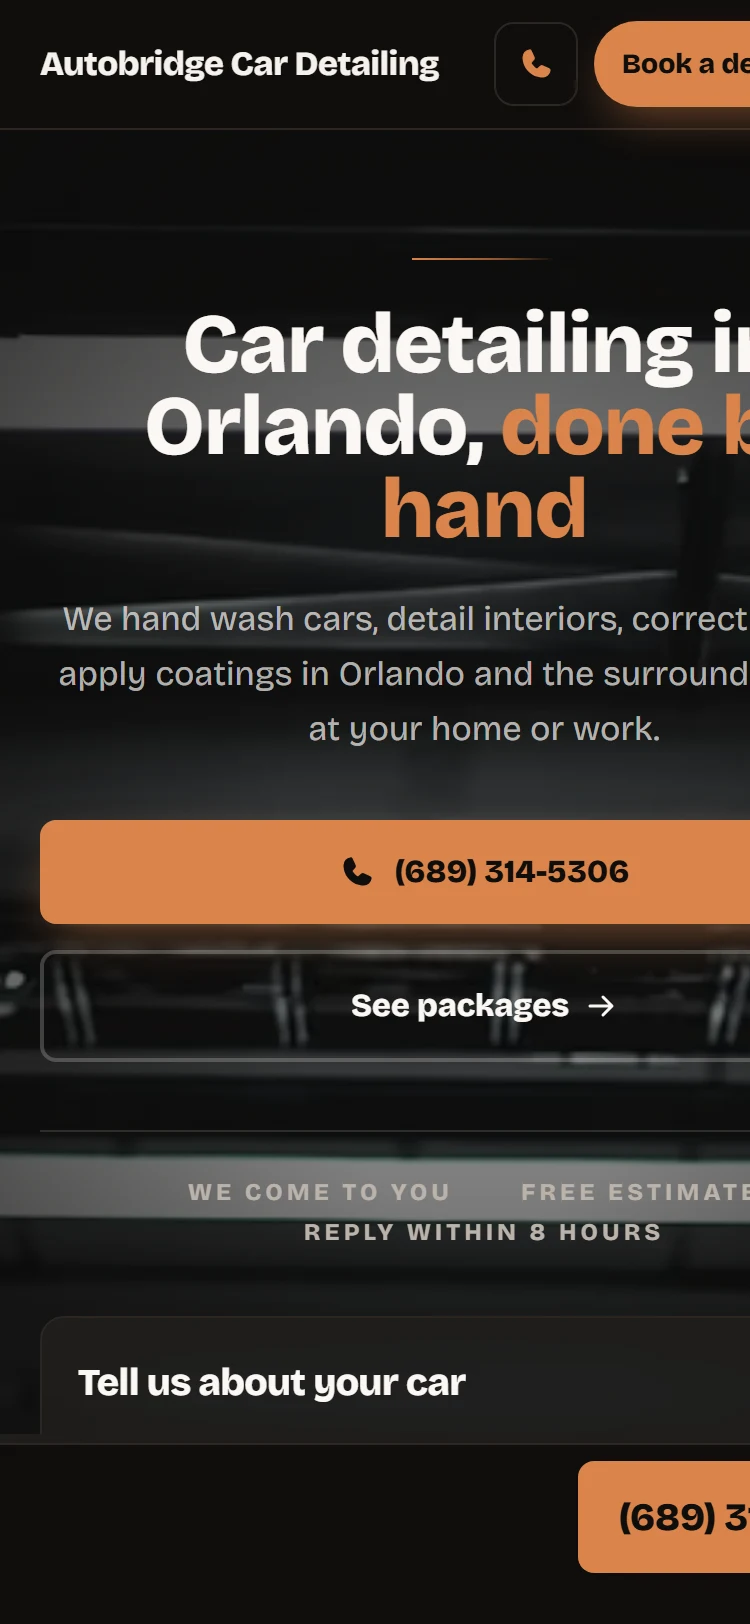
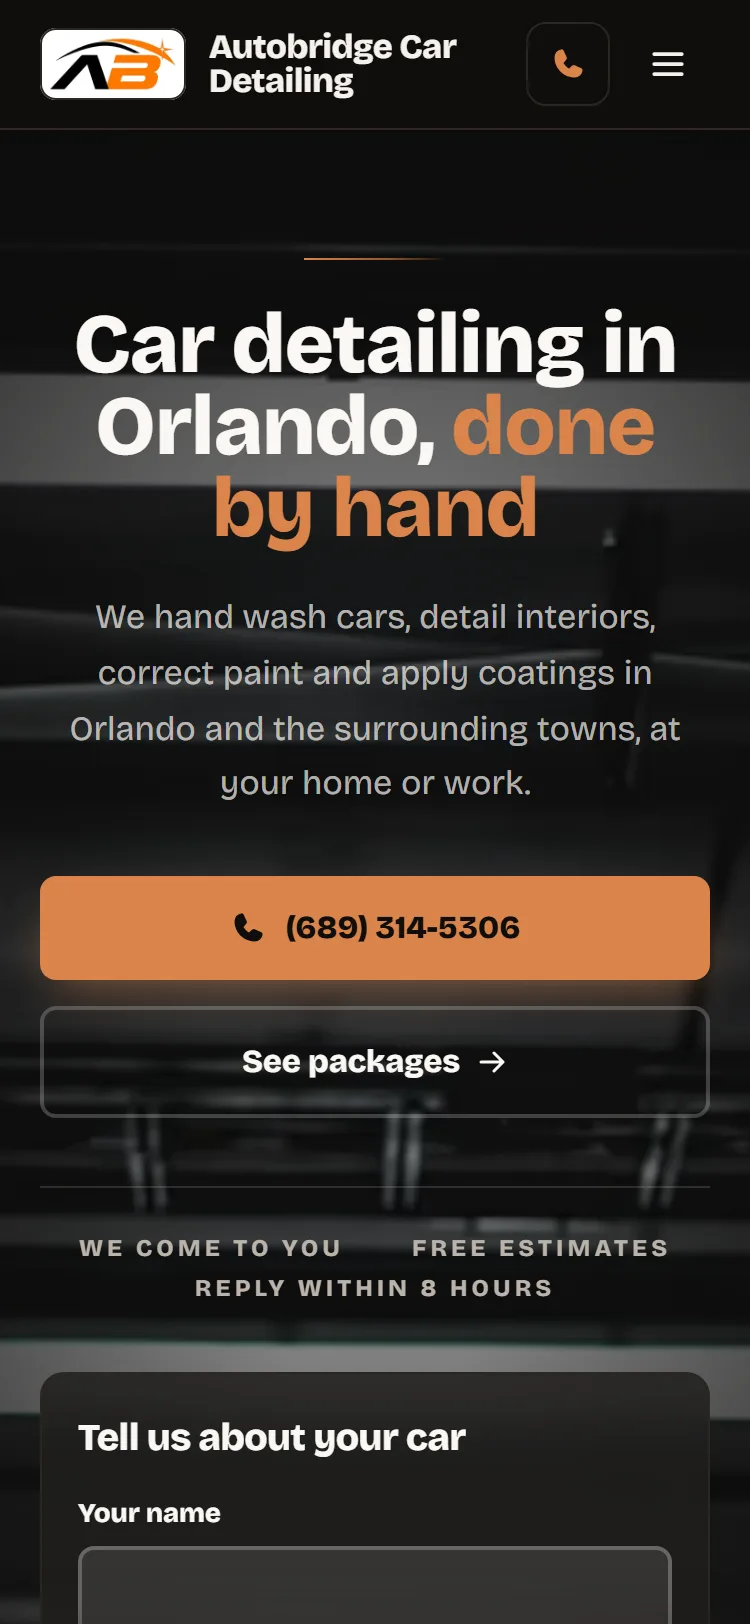
fix(trade pages): phone width, calculator numbers and Autobridge shots
/auto-detailing and /pressure-washing at a 375px phone:
- The ringing arcs hung past the edge (scrollWidth 385). The phone's
  mobile margin-right is now 40px, as on /roofing.
- The calculator inputs lost to the site-wide 16px input rule. Their
  override now sets font-size: inherit !important (44px; no iOS zoom).
- The three Autobridge screens are recaptured at a true 375x812 DPR-2
  phone viewport, so their right edge is no longer cut off.

No wording or other styling changes.

diff --git a/app/globals.css b/app/globals.css
@@ -7078,7 +7078,7 @@ a.portal-cell:hover, button.portal-cell:hover { background: var(--surface); }
 /* Beat the site-wide input override (background/border/colour !important) with higher specificity. */
 .detail-page .detail-dash .detail-blank input.detail-blank-in.detail-blank-in.detail-blank-in {
   background: transparent !important; border: 0 !important; color: inherit !important;
-  font: inherit; padding: 0; text-align: center; -moz-appearance: textfield; appearance: textfield;
+  font: inherit; font-size: inherit !important; padding: 0; text-align: center; -moz-appearance: textfield; appearance: textfield;
 }
 .detail-page .detail-dash .detail-blank input::-webkit-outer-spin-button,
 .detail-page .detail-dash .detail-blank input::-webkit-inner-spin-button { -webkit-appearance: none; margin: 0; }
@@ -7120,7 +7120,7 @@ a.portal-cell:hover, button.portal-cell:hover { background: var(--surface); }
   .detail-trees { gap: 62px; margin-top: 62px; }
   .detail-tree-wrap { width: min(286px, 100%); }
   .detail-land { padding-bottom: 0; }
-  .detail-fone { position: relative; right: auto; margin: -14px 6px 0 auto; }
+  .detail-fone { position: relative; right: auto; margin: -14px 40px 0 auto; }
   .detail-land-cap { margin-top: -6px; }
   .detail-keys-foot { text-align: center; }
   .detail-phones { grid-template-columns: minmax(0, 1fr); gap: 44px; }
@@ -7460,7 +7460,7 @@ a.portal-cell:hover, button.portal-cell:hover { background: var(--surface); }
 /* Beat the site-wide input override (background/border/colour !important) with higher specificity. */
 .pw-page .pw-sum .pw-blank input.pw-blank-in.pw-blank-in.pw-blank-in {
   background: transparent !important; border: 0 !important; color: inherit !important;
-  font: inherit; padding: 0; text-align: center; -moz-appearance: textfield; appearance: textfield;
+  font: inherit; font-size: inherit !important; padding: 0; text-align: center; -moz-appearance: textfield; appearance: textfield;
 }
 .pw-page .pw-sum .pw-blank input::-webkit-outer-spin-button,
 .pw-page .pw-sum .pw-blank input::-webkit-inner-spin-button { -webkit-appearance: none; margin: 0; }
@@ -7503,7 +7503,7 @@ a.portal-cell:hover, button.portal-cell:hover { background: var(--surface); }
   .pw-handoff-chips { grid-template-columns: repeat(2, minmax(0, 1fr)); }
   .pw-irow time { margin-left: 0; flex-basis: 100%; order: 3; }
   .pw-land { padding-bottom: 0; }
-  .pw-fone { position: relative; right: auto; margin: -14px 6px 0 auto; }
+  .pw-fone { position: relative; right: auto; margin: -14px 40px 0 auto; }
   .pw-land-cap { margin-top: -6px; }
   .pw-nozzles { gap: 40px; margin-top: 34px; }
   .pw-keeps-foot { text-align: center; }
